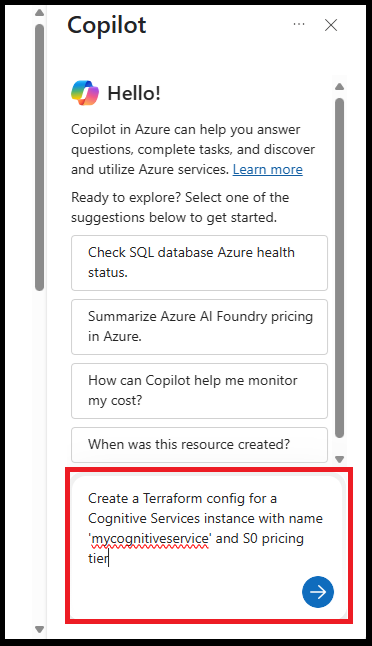
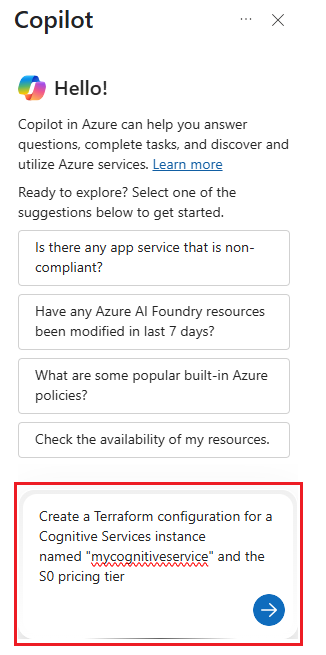
testing border on img

Changed region(s): [[0.0, 0.0, 1.0, 1.0]]

diff --git a/articles/terraform/terraform-handler-for-azure-copilot/generate-terraform-configuration-using-copilot.md b/articles/terraform/terraform-handler-for-azure-copilot/generate-terraform-configuration-using-copilot.md
@@ -38,7 +38,7 @@ In this article, you learn how to use Azure Copilot from the Azure portal and fr
 
 1. Press **&lt;Enter>**.
 
-    :::image type="content" source="./media/generate-terraform-configuration-using-copilot/copilot-prompt.png" alt-text="Screenshot of an example Azure Copilot prompt.":::
+    :::image type="content" source="./media/generate-terraform-configuration-using-copilot/copilot-prompt.png" border="true" alt-text="Screenshot of an example Azure Copilot prompt.":::
 
 1. Once Copilot responds, you can select **Open Full View** to view the configuration code block in full-screen mode.
 
@@ -94,29 +94,34 @@ In this article, you learn how to use Azure Copilot from the Azure portal and fr
 This section contains several example prompts you can use to generate Terraform configurations. Modify these prompts based on your scenarios, or try other prompts to create different kinds of queries.
 
 ```copilot-prompt
-Create a Terraform configuration for a Cognitive Services instance with name 'mycognitiveservice' and S0 pricing tier.
+Create a Terraform configuration for a Cognitive Services instance with 
+name "mycognitiveservice" and S0 pricing tier.
 ```
 
 ```copilot-prompt
-Create a Terraform configuration that deploys a Linux virtual machine running Ubuntu 22.04 LTS, 
-with 8 GB of RAM. The virtual machine should be located in the West US region and assigned a 
-public IP address. It must be connected to a virtual network that includes a subnet and is 
+Create a Terraform configuration that deploys a Linux virtual machine 
+running Ubuntu 22.04 LTS, with 8 GB of RAM. The virtual machine should 
+be located in the West US region and assigned a public IP address. 
+It must be connected to a virtual network that includes a subnet and is 
 secured by a network security group.
 ```
 
 ```copilot-prompt
-Create a Terraform configuration for a Container App resource named "myApp" using the quick start image. 
-Set the container app environment name to "awesomeAzureEnv" and the container name to "myQuickStartContainer".
+Create a Terraform configuration for a Container App resource named 
+"myApp" using the quick start image. Set the container app environment name 
+to "awesomeAzureEnv" and the container name to "myQuickStartContainer".
 ```
 
 ```copilot-prompt
-Create a Terraform configuration for an Azure Databricks workspace named "myworkspace" with the premium SKU. 
-The workspace should be deployed in the West US region.
+Create a Terraform configuration for an Azure Databricks workspace named 
+"myworkspace" with the premium SKU. The workspace should be deployed in 
+the West US region.
 ```
 
 ```copilot-prompt
-Create a Terraform configuration for an Azure OpenAI deployment that uses the "gpt-4" model. 
-Specify the model version as "2024-05-01-preview" and set the deployment name to "myOpenAIModel".
+Create a Terraform configuration for an Azure OpenAI deployment that uses 
+the "gpt-4" model. Specify the model version as "2024-05-01-preview" and 
+set the deployment name to "myOpenAIModel".
 ```
 
 ## Next steps
